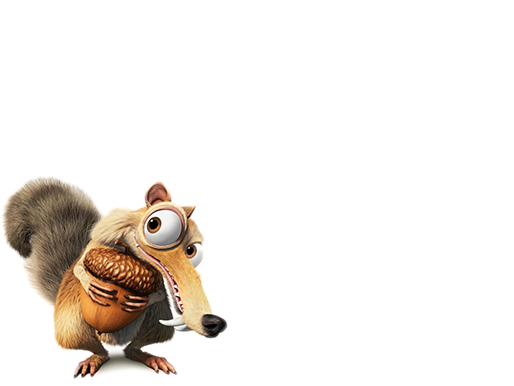
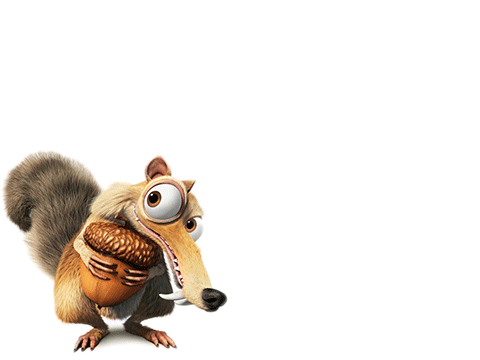
Add files via upload

Changed region(s): [[0.0, 0.3972, 0.4688, 0.9778]]

diff --git a/base.css b/base.css
@@ -17,21 +17,21 @@ body {
 	background-color: #EEE;
 	box-shadow: 0px 3px 4px #aaa;
 }
-
+/*/////////////////*/
 #header_titre {	position: relative; text-align: left; vertical-align: top; margin : 5px;}
 h1 { width: 200px; height: 110px; background-image: url("images/42_logo.png"); background-repeat: no-repeat;}
 
 #header_user {  position: relative; text-align: right; vertical-align: top; margin : 10px 10px 0px 0px;}
 #header_menu { position: relative;  bottom: 0px; right: 5px; text-align: center;  margin : 20px; }
 
-#div_video_fond { position: relative; top:0px; left:0px; width: 516px; height: 388px; text-align: center; z-index:4; }/*margin : 2px;*/
-#div_fond { position: absolute; top:0px; left:0px; width: 514px; height: 386px; text-align: center; z-index:2; margin : 0px;}
-#div_video { position: absolute; top:0px; left:0px; width: 514px; height: 386px; text-align: center; z-index:1; margin : 0px;}
-#div_canvas { position: absolute; top:0px; left:0px; width: 514px; height: 386px; text-align: center; z-index:3; margin : 0px;}
+#div_video_fond { position: relative; top:0px; left:0px; width: 482px; height: 362px; text-align: center; z-index:4; }/*margin : 2px;*/
+#div_fond { position: absolute; top:0px; left:0px; width: 480px; height: 360px; text-align: center; z-index:2; margin : 0px;}
+#div_video { position: absolute; top:0px; left:0px; width: 480px; height: 360px; text-align: center; z-index:1; margin : 0px;}
+#div_canvas { position: absolute; top:0px; left:0px; width: 480px; height: 360px; text-align: center; z-index:3; margin : 0px;}
 
-#fonds, #div_video_fond { border: 2px solid #666666;}
+#fonds, #div_video_fond, #div_fond, #div_video, #div_canvas { border: 1px solid #666666;}
 
-#fonds { position: relative; top:0px; left:0px; width: 516px; height: auto; text-align: center; background-color: #111; margin: 0px; }
+#fonds { position: relative; top:0px; left:0px; width: 482px; height: auto; text-align: center; background-color: #111; margin: 0px; }
 #fond { background-color: #000000;}
 .img_fond{margin : 5px 2px 0px 0px;}
 
@@ -151,6 +151,8 @@ p.like a:link, p.comment a:link 		{color: #777; text-decoration: none;}
 p.like a:visited, p.comment a:visited  	{color: #777; text-decoration: none;}
 p.like a:hover, p.comment a:hover  		{color: #ff6600; text-decoration: blink;}
 
+p.notice span, p.notice b { font-weight: bold; color:#39329B;}
+
 h1	{
 	float: left;
 	margin-top: 20px;
@@ -173,7 +175,7 @@ h2	{
 	#header, #footer, #div_galerie {width: 90%; margin: 2px 1em;}
 	#global {width: 90%; min-height: 500px; margin: 2px 1em;}
 	#main { width: 520px; margin: 2px 0em; padding: 0px 10px;}
-	#div_video_fond {margin: 2px;}
+	#div_video_fond {margin: 2px 0px;}
 	#user_imgs {margin: 2px 0em;}
 	#div_galerie { width: 100%; min-height: 500px; height:100%; margin: 2px 0em;}
 
@@ -181,7 +183,7 @@ h2	{
 	p, td.form { font-size: 12px; } 
 	p.content, p.content_left, p.content_right, p.content_center { font-size: 12px; }
 	p.notice, p.like { font-size: 10px; }
-	p.notice span, b { font-weight: bold;}
+
 	
 	}
 
@@ -198,7 +200,6 @@ h2	{
 	p, td.form { font-size: 12px; } 
 	p.content, p.content_left, p.content_right, p.content_center  { font-size: 12px; }
 	p.notice, p.like { font-size: 10px; }
-	p.notice span { font-weight: bold; }
 	
 	}
 
@@ -209,7 +210,6 @@ h2	{
 	p, td.form { font-size: 14px; }
 	p.content, p.content_left, p.content_right, p.content_center  { font-size: 12px; }
 	p.notice { font-size: 10px; }
-	p.notice span { font-weight: bold;}
 
 	}
 

diff --git a/js_camera.js b/js_camera.js
@@ -15,7 +15,7 @@ class Cfusion
     // il suffit d'utiliser activer_camera.style.display == "none" sans document.querySelector ou getElementById
 
     // Prefer camera resolution nearest to 1280x720.
-    var constraints = { audio: false, video: { width: 514, height: 386 } }; 
+    var constraints = { audio: false, video: { width: 480, height: 360 } }; 
 
     navigator.mediaDevices.getUserMedia(constraints)
     .then(function(mediaStream)

diff --git a/home.php b/home.php
@@ -13,7 +13,9 @@ print('<div id="main">');
 </style>
 <?php
 $Id = $_SESSION['Id'];
-
+//////////////////////
+$W = "480px";
+$H = "360px";
 
 print "<form method='post' accept-charset='utf-8' name='form1'>";
 print "<input name='hidden_data' id='hidden_data' type='hidden'/>";
@@ -22,9 +24,9 @@ print "<input name='hidden_fond' id='hidden_fond' type='hidden'/>";
 print "</form>";
 
 print '<div id="div_video_fond">';
-print('<div  id="div_video"><video id="video"  width="514px" height="386px"></video></div>');
-print('<div  id="div_fond" width="514px" height="386px"><p id="div_fond_text">Choisir votre fond<p></div>');
-print('<div  id="div_canvas"><canvas style="display:none" width="514px" height="386px"  id="canvas"></canvas></div>');
+print("<div  id=\"div_video\"><video id=\"video\" width=\"$W\" height=\"$H\"></video></div>");
+print("<div  id=\"div_fond\" width=\"$W\" height=\"$H\"><p id=\"div_fond_text\">Choisir votre fond<p></div>");
+print("<div  id=\"div_canvas\"><canvas style=\"display:none\" width=\"480px\" height=\"360px\"  id=\"canvas\"></canvas></div>");
 
 print '</div>'; // fin div div_video_fond
 print('<div id="draw" style="display:none"><button id="btn_draw" onclick="traitement.draw(\'fond01\');">Prendre une photo</button></div>');
@@ -35,7 +37,7 @@ print('<div id="test" style="display:none"><button id="btn_test" onclick="traite
 $dir_fonds = "fonds";
 $listfond = scandir ('fonds');
 $taillefond = ' width="51px" ';
-print('<div id="fonds" width="514px">');
+print("<div id=\"fonds\" width=\"$W\">");
 $CPrint = new CPrint;
 
 $compteur = 0;
